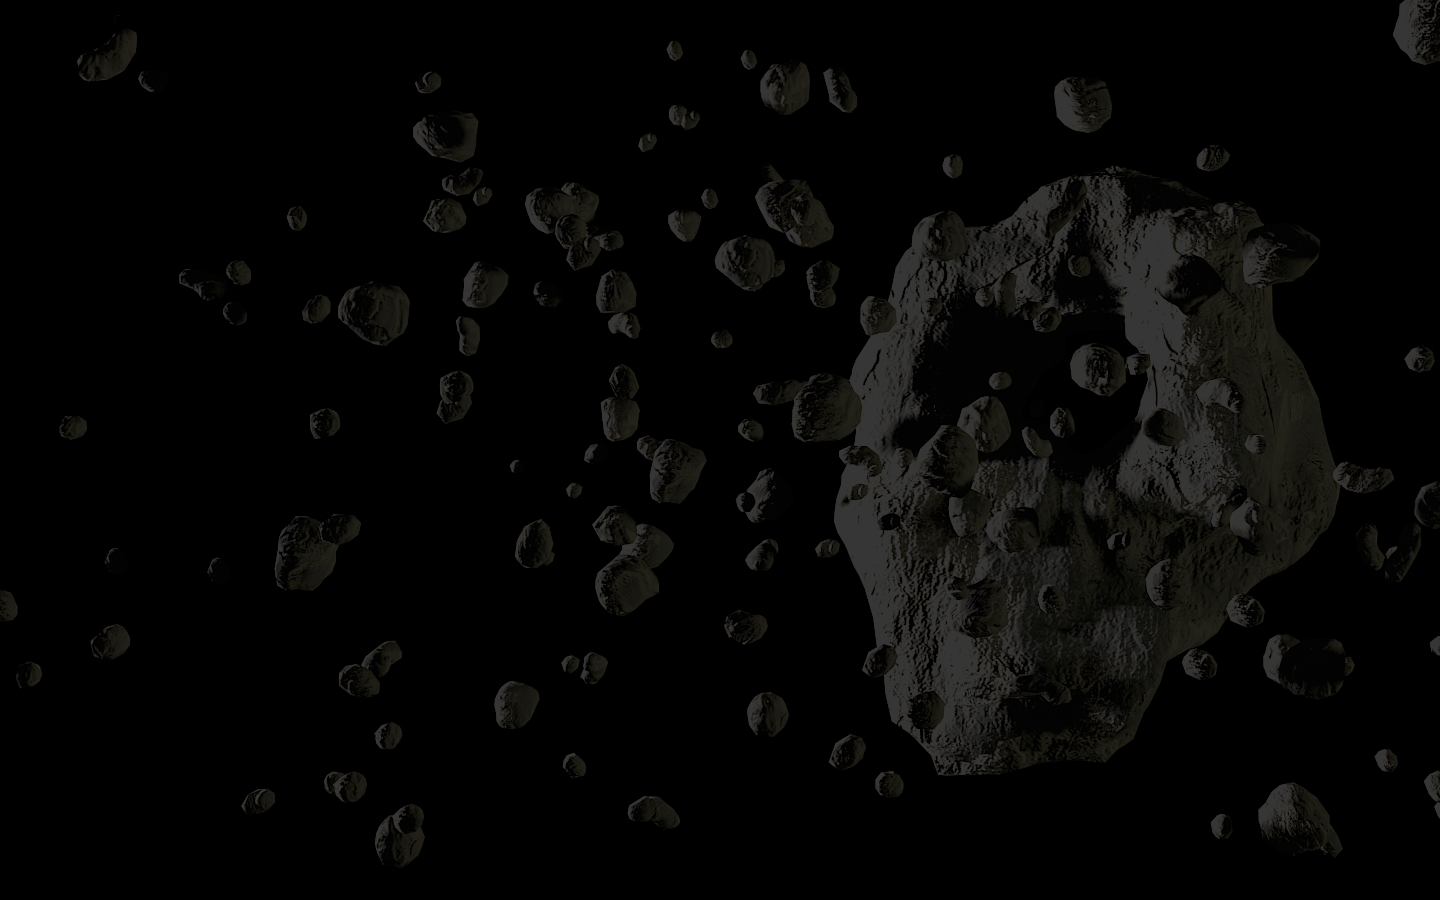
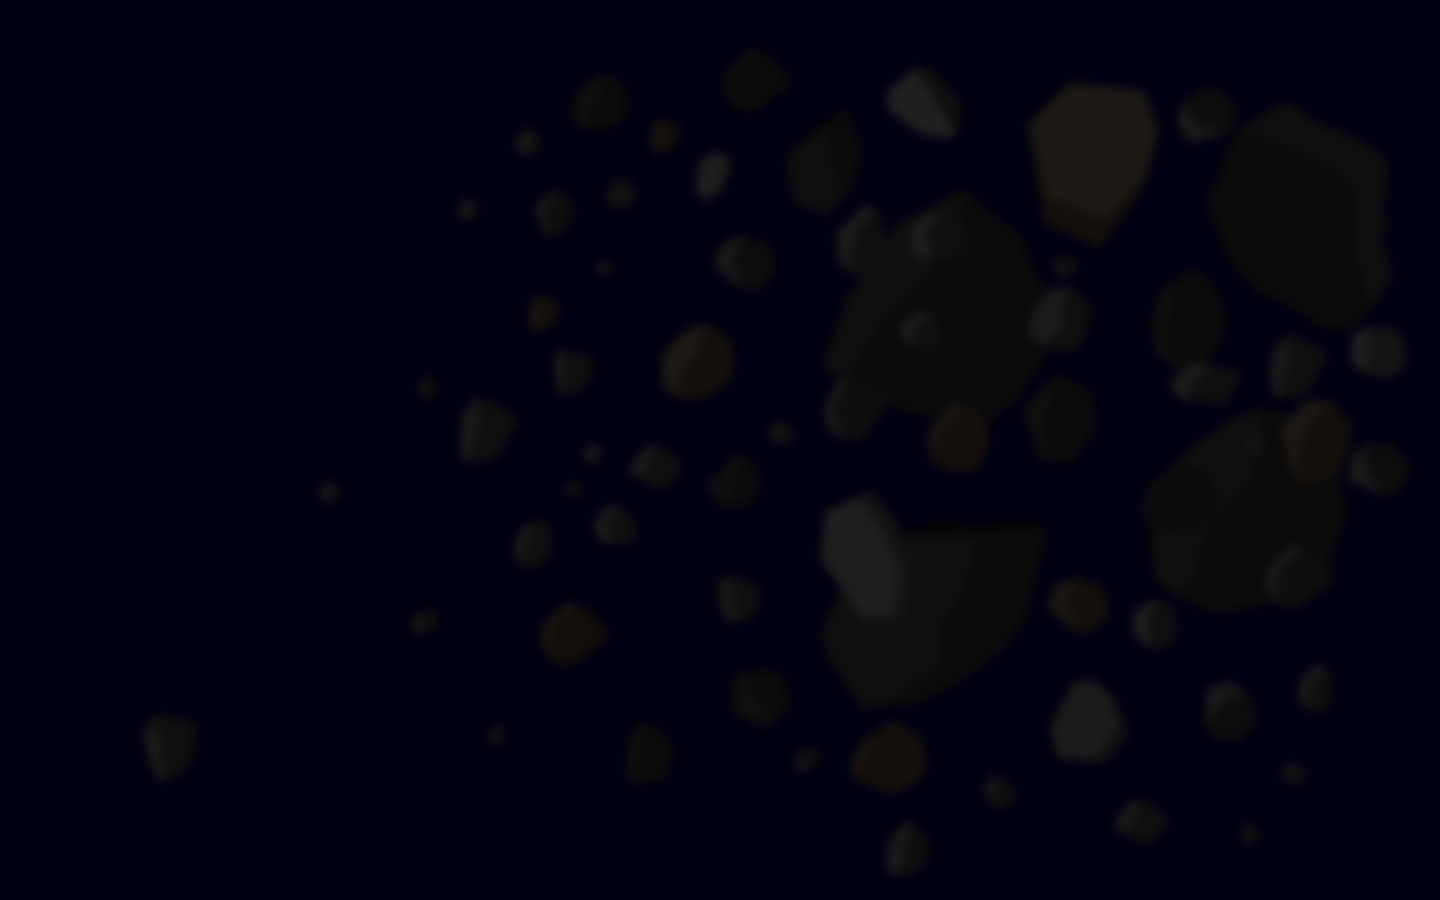
Changed background and styles

diff --git a/css/style.css b/css/style.css
@@ -1,6 +1,6 @@
 #bg {
 	color: #EDEBEB;
-	background-color: #000000;
+	background-color: #000012;
 	background-image:url("../webimages/asteroid.png");
 	background-repeat: no-repeat;
 	position: absolute;
@@ -31,7 +31,7 @@
 #sidebar {
 	position: static;
 	margin-top: 100px;
-	background-color:rgba(0,0,0,0.75);
+	/*background-color:rgba(0,0,0,0.75);*/
 	float: left;
 }
 
@@ -44,7 +44,7 @@
 }
 
 #main {
-	background-color:rgba(0,0,0,0.6);
+	/*background-color:rgba(0,0,0,0.6);*/
 	padding-top: 75px;
 	width: 800px;
 	margin-bottom: 40px;
